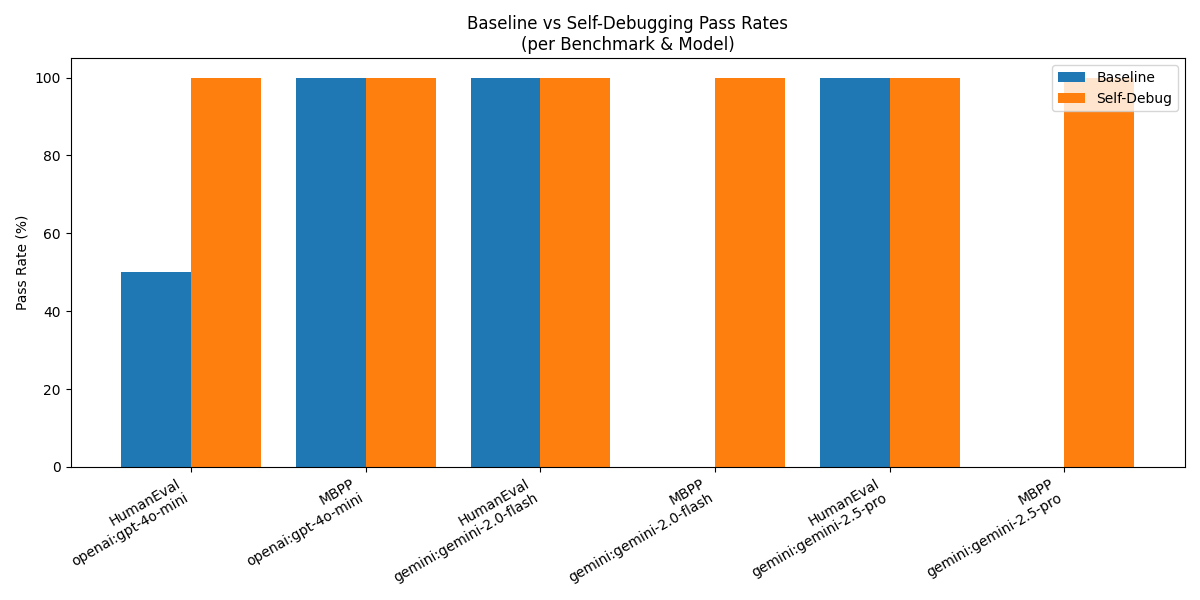
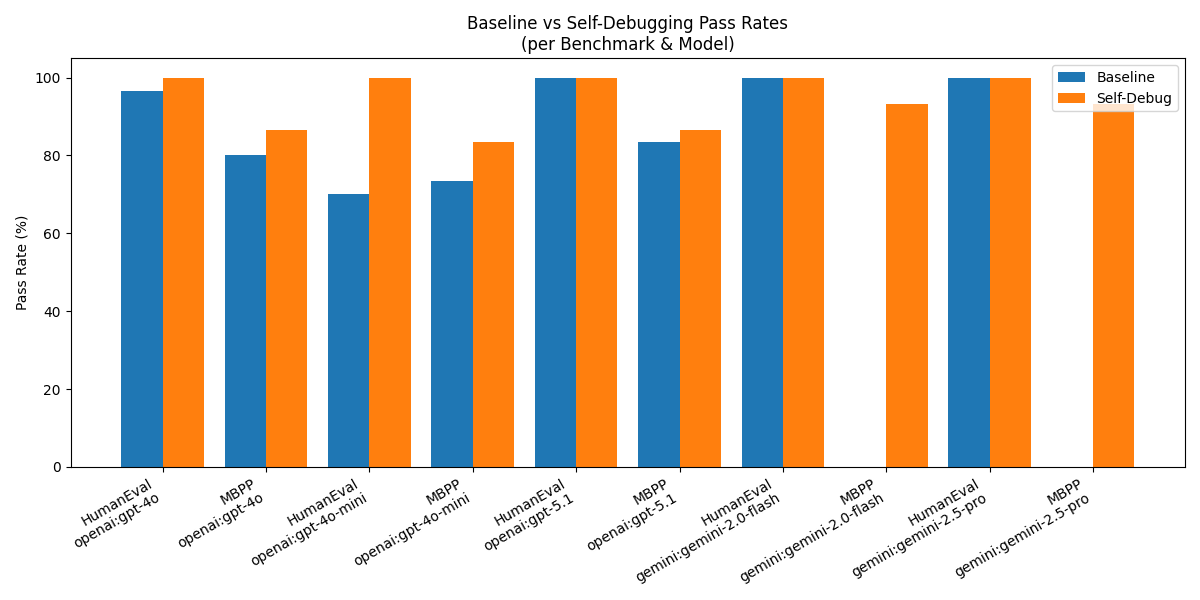
Modifications to the max_task number and max_self_debug interations for testing

diff --git a/index.py b/index.py
@@ -433,8 +433,8 @@ if __name__ == "__main__":
     # benchmarks = ["HumanEval", "MBPP", "APPS"]
     benchmarks = ["HumanEval", "MBPP"]
 
-    max_tasks = 3
-    max_self_debug_iters = 2
+    max_tasks = 30
+    max_self_debug_iters = 10
 
     all_results = []
 
@@ -520,75 +520,75 @@ if __name__ == "__main__":
 
 
 
-    print("\nSAMPLE ORIGINAL VS CORRECTED CODE\n")
+    # print("\nSAMPLE ORIGINAL VS CORRECTED CODE\n")
 
-    for mode, summary in all_results:
-        if mode != "self_debug":
-            continue
+    # for mode, summary in all_results:
+    #     if mode != "self_debug":
+    #         continue
 
-        details = summary.get("details", [])
-        if not details:
-            continue
+    #     details = summary.get("details", [])
+    #     if not details:
+    #         continue
 
-        sample = None
-        for d in details:
-            if (
-                d.get("self_debug_used")
-                and d.get("num_iterations", 1) > 2
-                and d.get("initial_code")
-            ):
-                sample = d
-                break
+    #     sample = None
+    #     for d in details:
+    #         if (
+    #             d.get("self_debug_used")
+    #             and d.get("num_iterations", 1) > 2
+    #             and d.get("initial_code")
+    #         ):
+    #             sample = d
+    #             break
 
-        if sample is None:
+    #     if sample is None:
     
-            continue
+    #         continue
 
-        init_code = sample.get("initial_code", "") or ""
-        final_code = sample.get("final_code", "") or ""
-        num_iters = sample.get("num_iterations", 1)
-        patch_explanations = sample.get("patch_explanations", []) or []
-
-        
-        if not init_code.strip():
-            continue
-
-        print("------------------------------------------------------------")
-        print(f"Benchmark: {summary['benchmark']}")
-        print(f"Model: {summary['provider']}:{summary['model']}")
-        print(f"Task ID: {sample.get('task_id')}")
-        print(f"Passed after self-debug: {sample.get('passed')}")
-        print(f"Iterations used: {num_iters}")
-        print("------------------------------------------------------------")
-
-        print(" ORIGINAL CODE (before self-debug)\n")
-        print(init_code)
-
-        if num_iters > 1 and final_code.strip():
-            print("\nCORRECTED CODE (after self-debug) \n")
-            print(final_code)
-
-            if patch_explanations:
-                print("\n>>> EXPLANATION(S) FOR CODE CORRECTION <<<")
-                for i, expl in enumerate(patch_explanations, 1):
-                    print(f"\n[Patch {i}]\n{expl}")
+    #     init_code = sample.get("initial_code", "") or ""
+    #     final_code = sample.get("final_code", "") or ""
+    #     num_iters = sample.get("num_iterations", 1)
+    #     patch_explanations = sample.get("patch_explanations", []) or []
 
         
-            print("\n DIFF BETWEEN ORIGINAL AND CORRECTED CODE\n")
-            init_lines = init_code.splitlines()
-            final_lines = final_code.splitlines()
-            diff_lines = difflib.unified_diff(
-                init_lines,
-                final_lines,
-                fromfile="original.py",
-                tofile="corrected.py",
-                lineterm="",
-            )
-            for line in diff_lines:
-                print(line)
-        else:
-            print("\n(Self-debugging did not perform extra iterations with a "
-                  "non-empty corrected code; corrected code is effectively "
-                  "identical to the original for this sample.)")
+    #     if not init_code.strip():
+    #         continue
 
-        print("------------------------------------------------------------\n")
+    #     print("------------------------------------------------------------")
+    #     print(f"Benchmark: {summary['benchmark']}")
+    #     print(f"Model: {summary['provider']}:{summary['model']}")
+    #     print(f"Task ID: {sample.get('task_id')}")
+    #     print(f"Passed after self-debug: {sample.get('passed')}")
+    #     print(f"Iterations used: {num_iters}")
+    #     print("------------------------------------------------------------")
+
+    #     print(" ORIGINAL CODE (before self-debug)\n")
+    #     print(init_code)
+
+    #     if num_iters > 1 and final_code.strip():
+    #         print("\nCORRECTED CODE (after self-debug) \n")
+    #         print(final_code)
+
+    #         if patch_explanations:
+    #             print("\n>>> EXPLANATION(S) FOR CODE CORRECTION <<<")
+    #             for i, expl in enumerate(patch_explanations, 1):
+    #                 print(f"\n[Patch {i}]\n{expl}")
+
+        
+    #         print("\n DIFF BETWEEN ORIGINAL AND CORRECTED CODE\n")
+    #         init_lines = init_code.splitlines()
+    #         final_lines = final_code.splitlines()
+    #         diff_lines = difflib.unified_diff(
+    #             init_lines,
+    #             final_lines,
+    #             fromfile="original.py",
+    #             tofile="corrected.py",
+    #             lineterm="",
+    #         )
+    #         for line in diff_lines:
+    #             print(line)
+    #     else:
+    #         print("\n(Self-debugging did not perform extra iterations with a "
+    #               "non-empty corrected code; corrected code is effectively "
+    #               "identical to the original for this sample.)")
+
+    #     print("------------------------------------------------------------\n")
